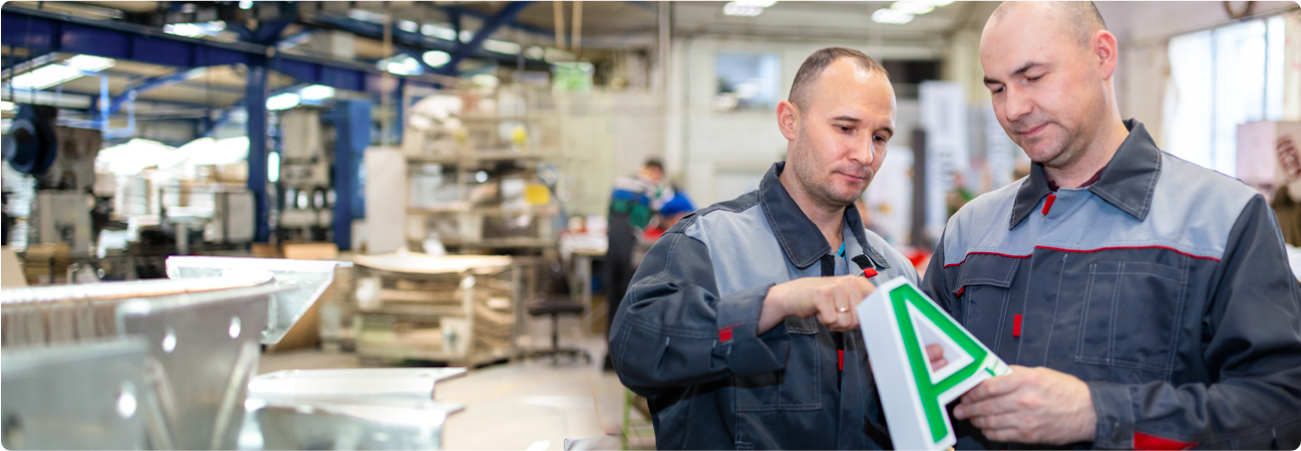
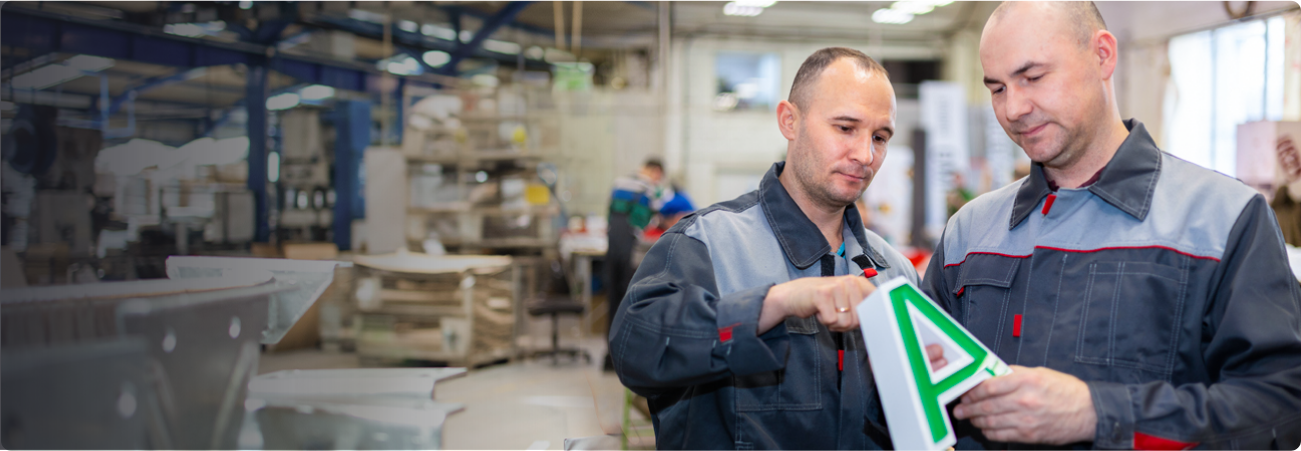
homepage -> hero component & slider

diff --git a/index.html b/index.html
@@ -4,9 +4,78 @@
     <meta charset="UTF-8" />
     <meta http-equiv="X-UA-Compatible" content="IE=edge" />
     <meta name="viewport" content="width=device-width, initial-scale=1.0" />
-    <title>Document</title>
+    <title>Главная</title>
+    <!-- Index css -->
+    <link rel="stylesheet" href="./css/index.css" />
+    <!-- Page css -->
+    <link rel="stylesheet" href="./css/pages/homepage.css" />
+    <!-- Fonts -->
+    <link rel="preconnect" href="https://fonts.googleapis.com" />
+    <link rel="preconnect" href="https://fonts.gstatic.com" crossorigin />
+    <link
+      href="https://fonts.googleapis.com/css2?family=Mulish:wght@400;500;700&display=swap"
+      rel="stylesheet"
+    />
+    <!-- Swiper cdn css -->
+    <link
+      rel="stylesheet"
+      href="https://cdn.jsdelivr.net/npm/swiper@9/swiper-bundle.min.css"
+    />
+    <!-- Swiper js -->
+    <script
+      defer
+      src="https://cdn.jsdelivr.net/npm/swiper@9/swiper-bundle.min.js"
+    ></script>
+
+    <!-- Js -->
+    <script defer src="./js/homepage.js"></script>
   </head>
   <body>
-    аыфа tп
+    <section class="hero">
+      <div class="container">
+        <div class="hero__inner">
+          <div class="hero__slider swiper">
+            <div class="hero__slider-wrapper swiper-wrapper">
+              <div class="hero__slider-slide swiper-slide">
+                <div class="hero__slider-slide-content">
+                  <h1 class="hero__title title--1">
+                    Сеть производств завода рекламы «Медиа-СПРЕЙ»
+                  </h1>
+                  <a href="#" class="hero__button button--1">Подробнее</a>
+                </div>
+                <img
+                  src="./images/hero-slider.png"
+                  alt="Background image"
+                  class="hero__bg-image"
+                />
+              </div>
+              <div class="hero__slider-slide swiper-slide">
+                <div class="hero__slider-slide-content">
+                  <h2 class="hero__title title--1">
+                    Сеть производств завода рекламы «Медиа-СПРЕЙ»
+                  </h2>
+                  <a href="#" class="hero__button button--1">Подробнее</a>
+                </div>
+                <img
+                  src="./images/hero-slider.png"
+                  alt="Background image"
+                  class="hero__bg-image"
+                />
+              </div>
+            </div>
+
+            <div class="hero__slider-arrows slider__arrows">
+              <button
+                class="hero__slider-arrow--prev slider__arrow slider__arrow--prev"
+              ></button>
+
+              <button
+                class="hero__slider-arrow--next slider__arrow slider__arrow--next"
+              ></button>
+            </div>
+          </div>
+        </div>
+      </div>
+    </section>
   </body>
 </html>

diff --git a/css/index.css b/css/index.css
@@ -1,0 +1,79 @@
+@import "./reset.css";
+@import "./vars.css";
+
+body {
+  box-sizing: border-box;
+  font-family: "Mulish", sans-serif;
+  font-weight: 500;
+  color: var(--main-color-text);
+  background-color: var(--page-bg-color);
+
+  /* Imitation header "delete later"*/
+  margin-top: 100px;
+}
+
+/* Custom Scroll */
+*::-webkit-scrollbar {
+  width: 0px;
+  height: 0;
+}
+*::-webkit-scrollbar-track {
+  background-color: var(--page-bg-color);
+}
+*::-webkit-scrollbar-thumb {
+  background-color: var(--accent-color);
+}
+
+/* ---- */
+/* Global styles */
+
+.container {
+  max-width: 1300px;
+  padding: 0 15px;
+  margin: 0 auto;
+}
+
+/* Titles */
+.title--1 {
+  font-size: 40px;
+  color: var(--main-color-text);
+  font-weight: 700;
+  line-height: 44px;
+  font-family: "Mulish";
+}
+/* Buttons */
+.button--1 {
+  display: inline-block;
+  border-radius: 10px;
+  padding: 14px 32px;
+
+  font-size: 16px;
+  font-weight: 500;
+  font-family: "Mulish";
+  text-align: center;
+  text-decoration: none;
+
+  color: var(--main-color-text);
+  background-color: var(--accent-color);
+}
+
+/* Swiper slider */
+.slider__arrows {
+  display: flex;
+}
+.slider__arrow {
+  display: block;
+  height: 30px;
+  width: 30px;
+
+  background-repeat: no-repeat;
+  background-size: cover;
+  background-position: center;
+}
+.slider__arrow--next {
+  background-image: url("../images/arrow-next.png");
+}
+.slider__arrow--prev {
+  margin-right: 12px;
+  background-image: url("../images/arrow-prev.png");
+}

diff --git a/css/reset.css b/css/reset.css
@@ -1,0 +1,135 @@
+/* http://meyerweb.com/eric/tools/css/reset/ 
+   v2.0 | 20110126
+   License: none (public domain)
+*/
+
+html,
+body,
+div,
+span,
+applet,
+object,
+iframe,
+h1,
+h2,
+h3,
+h4,
+h5,
+h6,
+p,
+blockquote,
+pre,
+a,
+abbr,
+acronym,
+address,
+big,
+cite,
+code,
+del,
+dfn,
+em,
+img,
+ins,
+kbd,
+q,
+s,
+samp,
+small,
+strike,
+strong,
+sub,
+sup,
+tt,
+var,
+b,
+u,
+i,
+center,
+dl,
+dt,
+dd,
+ol,
+ul,
+li,
+fieldset,
+form,
+label,
+legend,
+table,
+caption,
+tbody,
+tfoot,
+thead,
+tr,
+th,
+td,
+article,
+aside,
+canvas,
+details,
+embed,
+figure,
+figcaption,
+footer,
+header,
+hgroup,
+menu,
+nav,
+output,
+ruby,
+section,
+summary,
+time,
+mark,
+audio,
+video {
+  margin: 0;
+  padding: 0;
+  border: 0;
+  font-size: 100%;
+  font: inherit;
+  vertical-align: baseline;
+}
+/* HTML5 display-role reset for older browsers */
+article,
+aside,
+details,
+figcaption,
+figure,
+footer,
+header,
+hgroup,
+menu,
+nav,
+section {
+  display: block;
+}
+body {
+  line-height: 1;
+}
+ol,
+ul {
+  list-style: none;
+}
+blockquote,
+q {
+  quotes: none;
+}
+blockquote:before,
+blockquote:after,
+q:before,
+q:after {
+  content: "";
+  content: none;
+}
+table {
+  border-collapse: collapse;
+  border-spacing: 0;
+}
+/*  */
+button {
+  background-color: transparent;
+  border: none;
+  cursor: pointer;
+}

diff --git a/css/components/hero.css b/css/components/hero.css
@@ -1,0 +1,48 @@
+.hero__inner {
+  position: relative;
+  padding-top: 17px;
+  margin-bottom: 48px;
+}
+
+.hero__slider {
+  position: relative;
+}
+
+.hero__slider-slide {
+  border-radius: 12px;
+  overflow: hidden;
+  position: relative;
+  width: 100%;
+
+  /* background-image: url("../../images/hero-slider.png");
+  background-repeat: no-repeat;
+  background-size: cover; */
+}
+.hero__slider-slide-content {
+  position: absolute;
+  box-sizing: border-box;
+  width: 100%;
+  height: 100%;
+  padding: 78px 65px 60px 65px;
+}
+.hero__bg-image {
+  display: block;
+  max-height: 550px;
+  height: 100%;
+  min-height: 450px;
+  width: 100%;
+  object-fit: cover;
+}
+
+.hero__title {
+  max-width: 500px;
+  width: 100%;
+  margin-bottom: 38px;
+}
+
+.hero__slider-arrows {
+  position: absolute;
+  bottom: 60px;
+  left: 65px;
+  z-index: 10;
+}

diff --git a/js/homepage.js b/js/homepage.js
@@ -1,0 +1,12 @@
+const heroSlider = new Swiper(".hero__slider", {
+  // Optional parameters
+  // direction: "horizontal",
+  slidesPerView: 1,
+  autoHeigth: true,
+
+  // // Navigation arrows
+  navigation: {
+    nextEl: ".hero__slider-arrow--next",
+    prevEl: ".hero__slider-arrow--prev",
+  },
+});

diff --git a/css/vars.css b/css/vars.css
@@ -1,0 +1,5 @@
+:root {
+  --page-bg-color: #1b1b23;
+  --main-color-text: #ffffff;
+  --accent-color: #ff2c37;
+}

diff --git a/css/pages/homepage.css b/css/pages/homepage.css
@@ -1,0 +1,1 @@
+@import "../components/hero.css";
